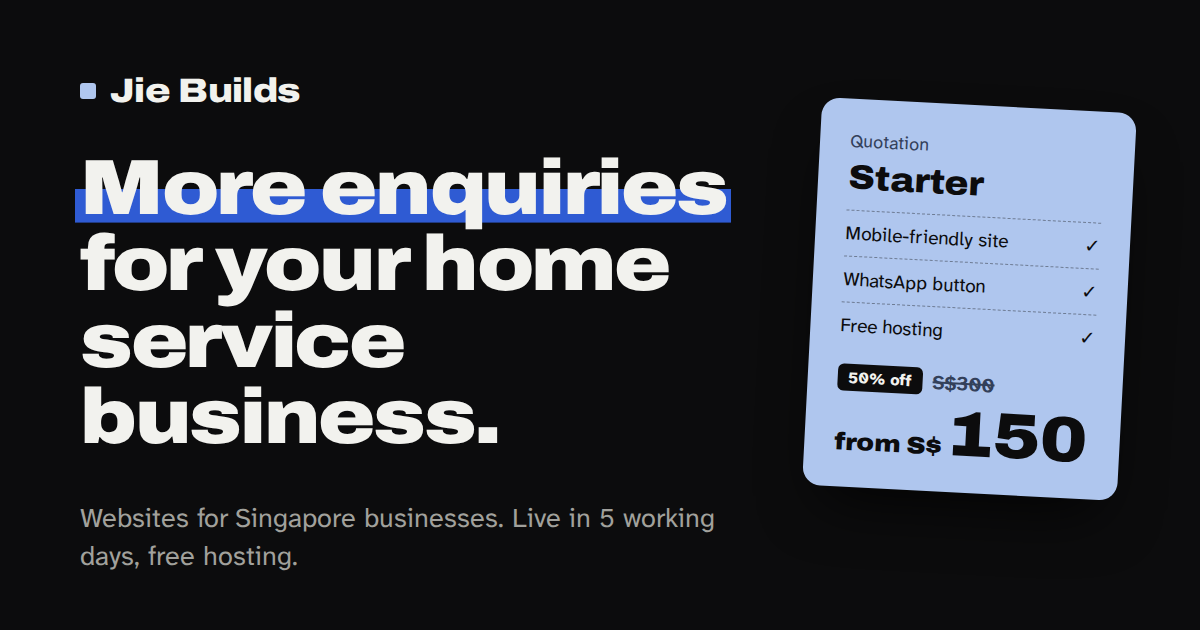
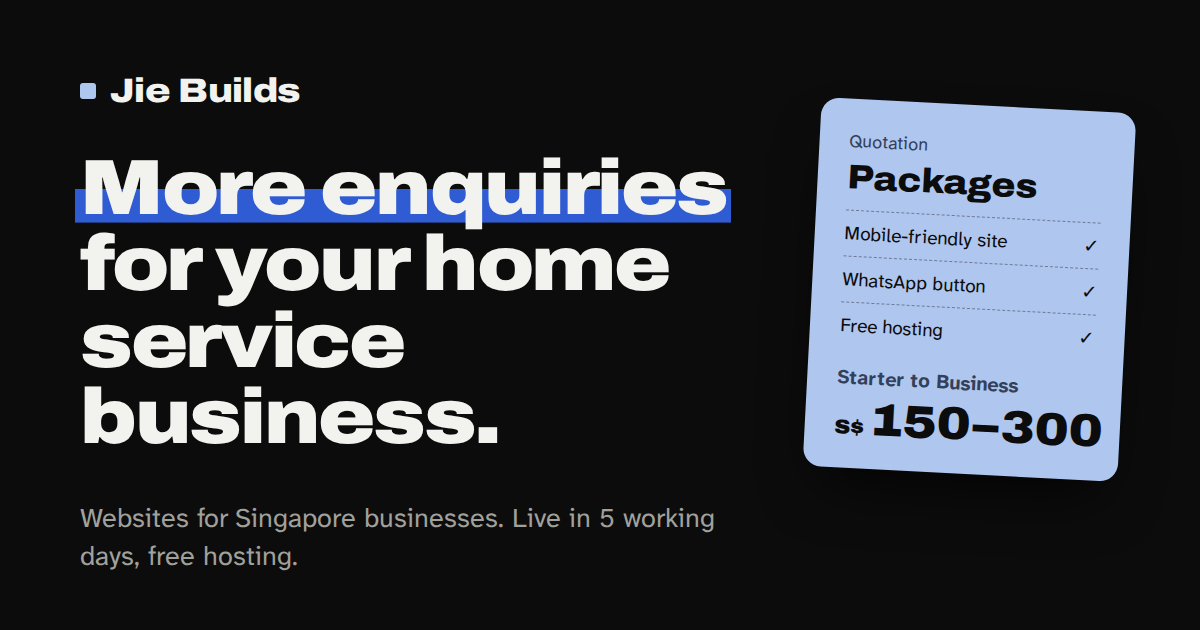
Real full-price month (July 2027), Starter full price 200, price range text and share image

diff --git a/index.html b/index.html
@@ -4,7 +4,7 @@
   <meta charset="utf-8">
   <meta name="viewport" content="width=device-width, initial-scale=1">
   <title>Website Design Singapore for Home Service Businesses | Jie Builds</title>
-  <meta name="description" content="Websites for Singapore aircon, plumbing, cleaning and renovation businesses. Live in 5 working days, free hosting, from S$150. Free design preview before you pay.">
+  <meta name="description" content="Websites for Singapore aircon, plumbing, cleaning and renovation businesses. Live in 5 working days, free hosting, S$150 to S$300. Free design preview before you pay.">
   <link rel="canonical" href="https://dlwk9277.github.io/">
   <meta name="theme-color" content="#0C0C0D">
   <meta name="color-scheme" content="dark">
@@ -15,7 +15,7 @@
   <meta property="og:title" content="Websites for Singapore home service businesses | Jie Builds">
   <meta property="og:description" content="Get more enquiries with a fast, professional website. Live in 5 working days, free hosting, free design preview before you pay.">
   <meta property="og:url" content="https://dlwk9277.github.io/">
-  <meta property="og:image" content="https://dlwk9277.github.io/assets/og-image.png?v=8">
+  <meta property="og:image" content="https://dlwk9277.github.io/assets/og-image.png?v=9">
   <meta property="og:image:width" content="1200">
   <meta property="og:image:height" content="630">
   <meta property="og:image:alt" content="Jie Builds: websites for Singapore home service businesses. Live in 5 working days.">
@@ -23,7 +23,7 @@
   <meta name="twitter:card" content="summary_large_image">
   <meta name="twitter:title" content="Websites for Singapore home service businesses | Jie Builds">
   <meta name="twitter:description" content="Get more enquiries with a fast, professional website. Live in 5 working days, free hosting included.">
-  <meta name="twitter:image" content="https://dlwk9277.github.io/assets/og-image.png?v=8">
+  <meta name="twitter:image" content="https://dlwk9277.github.io/assets/og-image.png?v=9">
 
   <link rel="icon" href="assets/favicon.svg" type="image/svg+xml">
   <link rel="icon" href="assets/favicon-32.png" sizes="32x32" type="image/png">
@@ -57,9 +57,9 @@
     "name": "Jie Builds",
     "description": "Websites, landing pages, chatbots and automations for home service and renovation businesses in Singapore.",
     "url": "https://dlwk9277.github.io/",
-    "image": "https://dlwk9277.github.io/assets/og-image.png?v=8",
+    "image": "https://dlwk9277.github.io/assets/og-image.png?v=9",
     "telephone": "+6592778104",
-    "priceRange": "From S$150",
+    "priceRange": "S$150-S$300",
     "areaServed": { "@type": "Country", "name": "Singapore" },
     "address": { "@type": "PostalAddress", "addressCountry": "SG" },
     "paymentAccepted": "PayNow",
@@ -189,7 +189,7 @@
             </fieldset>
             <!-- Option groups (Get found, Tools, Automation) are built from js/config.js -->
             <div class="calc-groups" id="calc-extras"></div>
-            <noscript><p>Turn on JavaScript to use this, or WhatsApp +65 9277 8104 for a price. Websites start from S$150.</p></noscript>
+            <noscript><p>Turn on JavaScript to use this, or WhatsApp +65 9277 8104 for a price. Websites cost S$150 to S$300.</p></noscript>
           </div>
           <!-- Phones: a small price bar that follows you while you pick -->
           <div class="calc-mini" id="calc-mini" aria-hidden="true">

diff --git a/js/config.js b/js/config.js
@@ -49,8 +49,8 @@ window.SITE_CONFIG = {
      Add next year's sales before the list runs out.
      The sale banner floats at the top of the page during a sale.
      On any day with NO sale, the banner is hidden and the site shows the
-     full original prices (oldPrice) with no discount. Keep one such week every year (this
-     year: 5-11 Apr 2027) so the original price is a real price.
+     full original prices (oldPrice) with no discount. Keep one full-price month every year (this
+     year: July 2027, no festivities) so the original price is a real price.
      Lunar dates (Chinese New Year, Hari Raya, Deepavali) move every year:
      check them on mom.gov.sg ("public holidays").                       */
   saleEvents: [
@@ -61,10 +61,10 @@ window.SITE_CONFIG = {
     { name: "Chinese New Year sale",  from: "2027-01-21", to: "2027-02-20" },  /* CNY 6-7 Feb 2027 */
     { name: "Hari Raya sale",         from: "2027-02-21", to: "2027-03-20" },  /* Hari Raya Puasa 10 Mar 2027 */
     { name: "Easter sale",            from: "2027-03-21", to: "2027-04-04" },  /* Good Friday 26 Mar 2027 */
-    /* 5-11 Apr 2027: no sale. Full (original) prices for one week a year. */
-    { name: "Labour Day sale",        from: "2027-04-12", to: "2027-05-15" },
+    { name: "Labour Day sale",        from: "2027-04-05", to: "2027-05-15" },
     { name: "Vesak Day sale",         from: "2027-05-16", to: "2027-05-31" },
-    { name: "Great Singapore Sale",   from: "2027-06-01", to: "2027-07-31" },
+    { name: "Great Singapore Sale",   from: "2027-06-01", to: "2027-06-30" },
+    /* July 2027: no sale. Full (original) prices for the whole month (no public holiday or festival). */
     { name: "National Day sale",      from: "2027-08-01", to: "2027-08-31" },
     { name: "9.9 sale",               from: "2027-09-01", to: "2027-09-09" },
     { name: "Mid-Autumn sale",        from: "2027-09-10", to: "2027-09-30" },  /* Mid-Autumn 15 Sep 2027 */
@@ -89,7 +89,7 @@ window.SITE_CONFIG = {
        its own line, never added into the big number, so the headline price
        stays between S$150 and S$300.                                    */
   packages: [
-    { id: "starter",  name: "Starter",  price: 150, oldPrice: 300 },
+    { id: "starter",  name: "Starter",  price: 150, oldPrice: 200 },
     { id: "business", name: "Business", price: 250, oldPrice: 300 }
   ],
 

diff --git a/js/i18n.js b/js/i18n.js
@@ -45,7 +45,7 @@
   function A(sel, attr, v) { var n = $(sel); if (n) n.setAttribute(attr, v); }
 
   doc.title = "新加坡家居服务生意网站设计 | 杰 Builds";
-  A('meta[name="description"]', "content", "为新加坡冷气、水管、清洁和装修生意制作网站。5 个工作天上线，免费托管，S$150 起。付款前先看免费设计预览。");
+  A('meta[name="description"]', "content", "为新加坡冷气、水管、清洁和装修生意制作网站。5 个工作天上线，免费托管，S$150 至 S$300。付款前先看免费设计预览。");
   Tn(".skip-link", "跳到内容");
   ["价格", "流程", "常见问题"].forEach(function (t, i) { Tn(".site-nav a", t, i); });
   A(".wordmark", "aria-label", "杰 Builds，回到顶部");

diff --git a/README.md b/README.md
@@ -93,12 +93,12 @@ All in `js/config.js`:
 
 ### Sale calendar (the discount changes by itself)
 
-The discount is shown as the current Singapore sale: "Christmas sale: from S$150 (was S$300) · until 31 Dec", in the blue bar that floats at the top of the page while visitors scroll, and as the crossed-out price in the calculator. The site picks the sale from today's date (Singapore time), so you don't need to change anything when a sale ends.
+The discount is shown as the current Singapore sale: "Christmas sale: from S$150 (was S$200) · until 31 Dec", in the blue bar that floats at the top of the page while visitors scroll, and as the crossed-out price in the calculator. The site picks the sale from today's date (Singapore time), so you don't need to change anything when a sale ends.
 
 - The list is `saleEvents` in `js/config.js`. Each line has a name, a first day and a last day.
 - It runs to the end of 2027. **Before it runs out, add next year's sales** (copy a line, change the name and dates).
 - Chinese New Year, Hari Raya and Deepavali move every year: check the dates on mom.gov.sg ("public holidays").
-- **One week a year has no sale** (5-11 Apr 2027): the site shows the full original prices with no discount, so the "usual price" is a real price. Keep a week like this when you add next year's sales. Any day not on the list also shows full prices.
+- **One full month a year has no sale** (July 2027, no public holiday or festival): the site shows the full original prices with no discount, so the "usual price" is a real price. Keep a month like this when you add next year's sales, ideally before the sales that follow. Any day not on the list also shows full prices.
 
 ### Price calculator
 
